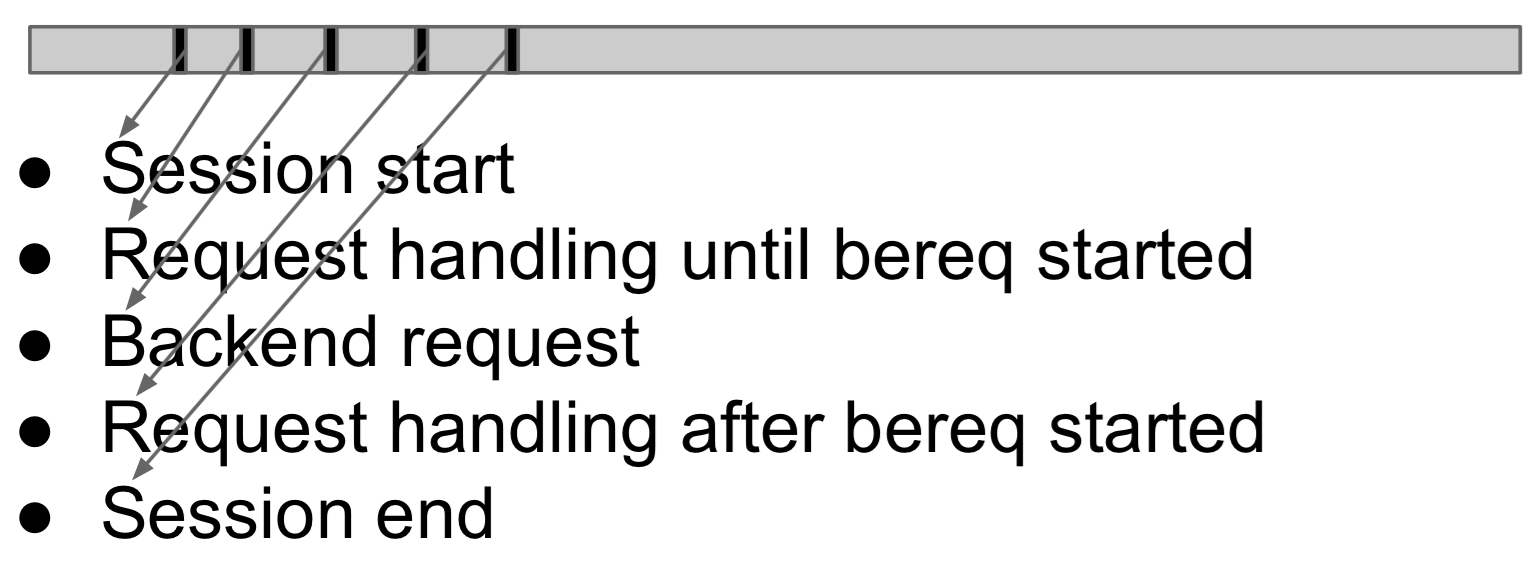
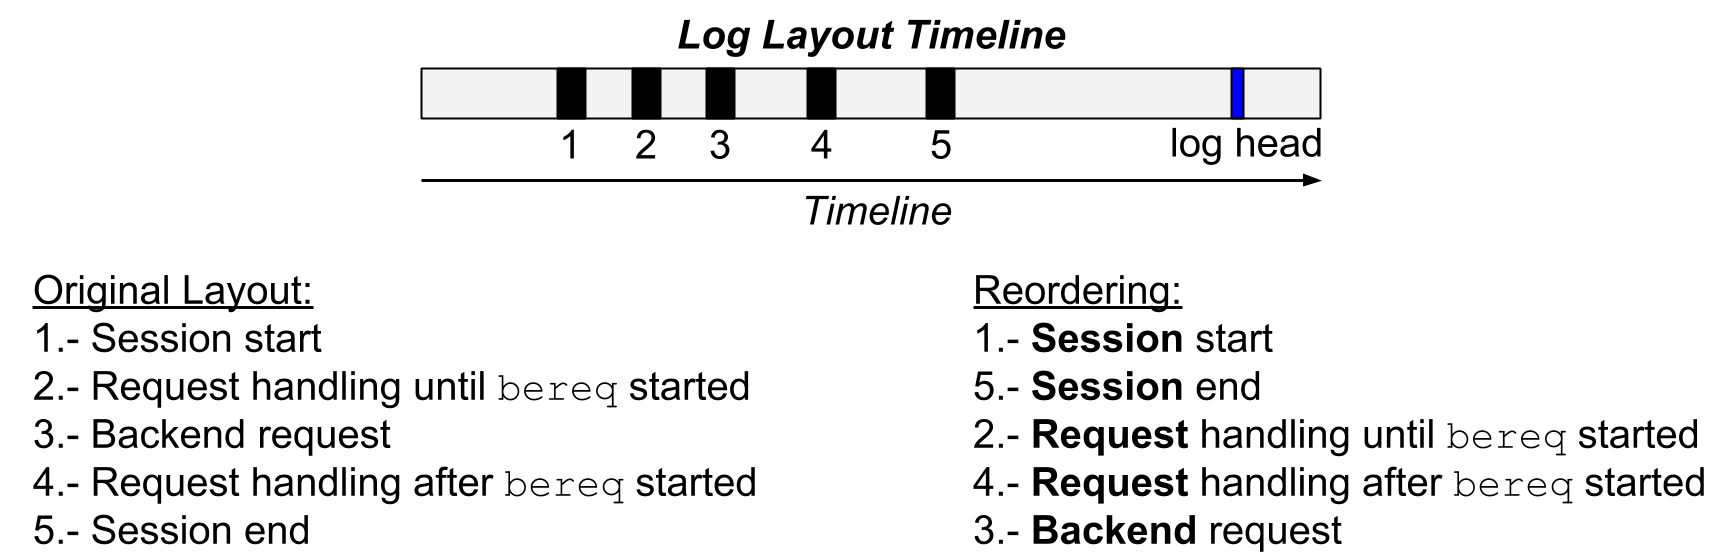
Adding Varnish Cache vs. Varnish Plus diagramas. Adding figures: reverse_proxy and log_layout. Adding description of reordering log transactions.

Changed region(s): [[0.0, 0.0305, 0.9974, 0.9749], [0.0, 0.2742, 0.0312, 0.3351]]

diff --git a/varnish_book.rst b/varnish_book.rst
@@ -91,57 +91,57 @@ The Webdev course requires that you:
    This part is perhaps the most UNIX-centric part of the course.
    If you are taking a Varnish course, do not hesitate to ask your instructor for help.
 
-Organization of the Book and Course
------------------------------------
+.. Organization of the Book and Course
+   -----------------------------------
 
-TODO for instructor: tailor this slide
+   TODO for instructor: tailor this slide
 
-Each chapter has the following structure:
+   Each chapter has the following structure:
 
-  1) background,
-  2) checklist,
-  3) example(s),
-  4) exercise(s), and 
-  5) feedback.
+     1) background,
+     2) checklist,
+     3) example(s),
+     4) exercise(s), and 
+     5) feedback.
 
-At the end of each chapter there is a **Fast Track** section, and it contains three parts:
-  1) a review,
-  2) exercise(s), and 
-  3) feedback.
+   At the end of each chapter there is a **Fast Track** section, and it contains three parts:
+     1) a review,
+     2) exercise(s), and 
+     3) feedback.
 
-.. container:: handout
+   .. container:: handout
 
-   .. TODO presentation of outline
+      .. TODO presentation of outline
 
-   The introduction presents background information of the relevant technologies behind Varnish.
-   It presents the history and main design principles needed to understand Varnish.
+      The introduction presents background information of the relevant technologies behind Varnish.
+      It presents the history and main design principles needed to understand Varnish.
 
-   .. TODO for the author:
-   .. complete this paragraph
+      .. TODO for the author:
+      .. complete this paragraph
 
-   .. Each chapter teaches one **objective** and its **sub-objectives**, or component skills.
-   .. The format of each sub-objective is of a five-part **lesson** including:
+      .. Each chapter teaches one **objective** and its **sub-objectives**, or component skills.
+      .. The format of each sub-objective is of a five-part **lesson** including:
 
-   The Fast Track can be used for various purposes:
+      The Fast Track can be used for various purposes:
 
-   - As a preliminary test. If you know the information in the Fast Track and can do its exercises, you may skip the chapter.
-   - As a test. If you can perform the exercises in the Fast Track, you have learned the important skills taught in the chapter.
-   - As a express lesson. If you do not have the time to complete the entire chapter, you can use the Fast Track instead.
-   - As a preview of the chapter. The Fast Track provides a concise overview of what you learn in the chapter.
-   - As a review. Once you have completed the Varnish Book, you can use the Fast Tracks as a quick review.
+      - As a preliminary test. If you know the information in the Fast Track and can do its exercises, you may skip the chapter.
+      - As a test. If you can perform the exercises in the Fast Track, you have learned the important skills taught in the chapter.
+      - As a express lesson. If you do not have the time to complete the entire chapter, you can use the Fast Track instead.
+      - As a preview of the chapter. The Fast Track provides a concise overview of what you learn in the chapter.
+      - As a review. Once you have completed the Varnish Book, you can use the Fast Tracks as a quick review.
 
-   In Appendix A of the book, you will find the **Varnish Book Reference**.
-   The Varnish Book Reference is a complete listing, by chapter, of all the checklists.
-   Appendix B and C contain special purpose Varnish programs and supporting material respectively.
-   Appendix D lists the Varnish Three Letter Acronyms.
-   Appendix E describes what is new since Varnish 3.0.
+      In Appendix A of the book, you will find the **Varnish Book Reference**.
+      The Varnish Book Reference is a complete listing, by chapter, of all the checklists.
+      Appendix B and C contain special purpose Varnish programs and supporting material respectively.
+      Appendix D lists the Varnish Three Letter Acronyms.
+      Appendix E describes what is new since Varnish 3.0.
 
-   .. TODO for the author: include a glossary based on:
-   .. https://www.varnish-cache.org/trac/wiki/VTLA
+      .. TODO for the author: include a glossary based on:
+      .. https://www.varnish-cache.org/trac/wiki/VTLA
 
-   .. TODO for the author: remove this comment when the organization has been completely implemented.
-   
-   Note: This organization is still not completely implemented.
+      .. TODO for the author: remove this comment when the organization has been completely implemented.
+
+      Note: This organization is still not completely implemented.
 
 .. Commenting this subsection
 
@@ -223,11 +223,12 @@ Introduction
 
 .. TODO Comparison of related software solutions such as: Apache mod_security, Squid, Nginx, and Apache Traffic Server (ATS) (reverse and forward proxy, generally comparable to Nginx and Squid).
 
+What is Varnish?
+----------------
 
-Varnish Cache and Varnish Cache Plus
-------------------------------------
-- TODO: Here goes a diagram of Varnish as reverse HTTP proxy.
-- TODO: Here goes a diagram showing the differences between Varnish Cache and  Varnish Plus
+.. image:: ui/img/reverse_proxy.png
+   :alt: Reverse Proxy
+   :align: center
 
 .. container:: handout
 
@@ -244,6 +245,43 @@ Varnish Cache and Varnish Cache Plus
    At the same time, Varnish is flexible.
    The Varnish Configuration Language (VCL) is lightning fast and allows system administrators to express their wanted policy rather than being constrained by what the Varnish developers want to cater for or could think of.
    Varnish has shown itself to work well both on large (and expensive) servers and tiny appliances.
+
+   .. Varnish use
+
+   Varnish is more than a reverse HTTP proxy.
+   Depending on the installation, Varnish can be used as:
+
+   .. TODO for the author: can we be more specific with what functionality is achieved with Varnish Cache, and which one with Varnish Cache Plus?
+
+   - web application firewall,
+   - DDoS attacks defender,
+   - load balancer,
+   - integration point,
+   - quick fix for unstable backends, and
+   - HTTP router.
+
+   At the moment of writting this book, Varnish Plus is supporting the following Linux distributions:
+
+   - RedHat Enterprise Linux 5
+   - RedHat Enterprise Linux 6
+   - Ubuntu Linux 12.04 LTS (precise)
+   - Ubuntu Linux 14.04 LTS (trusty)
+   - Debian Linux 7 (wheezy)
+
+   Varnish Cache Plus is supported on 64-bit systems.
+
+Varnish Cache and Varnish Cache Plus
+------------------------------------
+
+.. image:: ui/img/varnish_cache_plus_components.png
+   :alt: Varnish Cache and Varnish Plus Components Diagram
+   :align: center
+
+.. image:: ui/img/varnish_cache_plus_union.png
+   :alt: Varnish Cache and Varnish Plus Union Diagram
+   :align: center
+
+.. container:: handout
 
    .. Open Source / Free Software:
 
@@ -276,38 +314,25 @@ Varnish Cache and Varnish Cache Plus
    Varnish Software also provides a commercial suite called Varnish Plus with software products for scalability, customization, monitoring and expert support services.
    The engine of the Varnish Plus commercial suite is the enhanced commercial edition of Varnish Cache.
    This edition is proprietary and it is called *Varnish Cache Plus*.
+   Figure Varnish Cache and Varnish Plus Union Diagram shows 
    
    The Varnish Plus offer of software products include:
 
-   - the Varnish Massive Storage Engine,
+   - the Varnish Massive Storage Engine (MSE),
    - hashtwo (Varnish Software implementation of surrogate keys),
    - Varnish Administration Console (VAC),
    - Varnish Customer Statistics (VCS),
-   - Varnish Tuner, and more.
+   - Varnish Tuner,
+   - and more at https://www.varnish-software.com/what-is-varnish-plus.
 
-   .. Varnish use
+   .. VMODs
+   .. bookmark
+   .. TODO for the author: describe VMODs and describe the diagramas above.
 
-   Varnish is more than a reverse HTTP proxy.
-   Depending on the installation, Varnish can be used as:
+   .. https://www.varnish-cache.org/vmods
+   
 
-   .. TODO for the author: can we be more specific with what functionality is achieved with Varnish Cache, and which one with Varnish Cache Plus?
-
-   - web application firewall,
-   - DDoS attacks defender,
-   - load balancer,
-   - integration point,
-   - quick fix for unstable backends, and
-   - HTTP router.
-
-   At the moment of writting this book, Varnish Plus is supporting the following Linux distributions:
-
-   - RedHat Enterprise Linux 5
-   - RedHat Enterprise Linux 6
-   - Ubuntu Linux 12.04 LTS (precise)
-   - Ubuntu Linux 14.04 LTS (trusty)
-   - Debian Linux 7 (wheezy)
-
-   Varnish Cache Plus is supported on 64-bit systems.
+   This book covers the modules with dark blue background in Figure Varnish Cache and Varnish Plus Components Diagram.
 
 Varnish Software
 ----------------
@@ -342,7 +367,8 @@ Varnish timeline:
    Today Varnish Software is able to fund the core development with income from service agreements, in addition to offering development of specific features on a case-by-case basis.
    The interest in Varnish continues to increase.
    An informal study based on the list of most popular web sites in Norway indicates that about 75% or more of the web traffic that originates in Norway is served through Varnish.
-   .. TODO for the author: reference?
+
+   .. TODO for the author: reference for the informal study?
 
    .. VGB
 
@@ -896,36 +922,23 @@ Log Layout
 
 .. image:: ui/img/log_layout.png
    :align: center
-   :width: 80%
 
 .. container:: handout
    
-   .. TODO for the author: Add description
-
-   TODO: To update figure resolution and add description.
-
-Reordered Log Layout
---------------------
-
-.. image:: ui/img/reordered_log_layout.png
-   :align: center
-   :width: 80%
-
-.. container:: handout
-
-    .. TODO for the author: Add description
-
-   TODO: To update figure resolution and add description.
+   The figure above shows how Varnish logs transactions chronologically, and how can they be reordered.
+   The ``varnishlog`` tool offers mechanisms to reorder transactions grouped by session, client- or backend-request.
+   `Transactions`_ Subsection explains transactions in more detail.
 
 Transactions
 ------------
 
 - A transaction is one work item in Varnish
-- Share a single Varnish Transaction ID (VXID) per types of transactions. Examples of transaction types are:
+- Share a single Varnish Transaction ID (VXID) per types of transactions.
+  Examples of transaction types are:
 
+ - Session
  - Client request
  - Backend request
- - Session
 
 - Transaction reasons. Examples:
 
@@ -952,7 +965,7 @@ Transactions
    .. Transaction reasons
 
 Transaction Groups
-------------------
+..................
 
 .. the VSL-query man page describes the grouping modes and the transaction hierarchy
 .. https://www.varnish-cache.org/docs/trunk/reference/vsl-query.html
@@ -993,7 +1006,7 @@ Transaction Groups
    ``varnishlog`` indents its output based on the level of the request, making it easier to see the level of the current request.
 
 Example of Transaction Grouping with ``varnishlog``
----------------------------------------------------
+...................................................
 
 .. image:: ui/img/cache_miss_request_grouping.png
 
@@ -4436,8 +4449,6 @@ For the ESI to work, load the following VCL code.
 Then reload Varnish and issue the command ``http http://localhost/esi-date.php``.
 The output should show you how Varnish replaces the ESI tag with the reponse from ``esi-date.cgi``.
 This example also tries to show you how the glued objects have different TTLs.
-
-.. bookmark
 
 Exercise: Enable ESI and Cookies
 ................................
